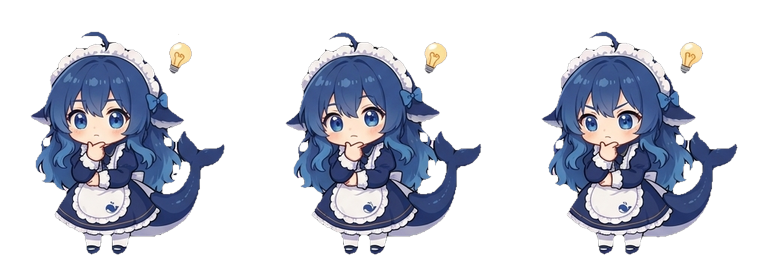
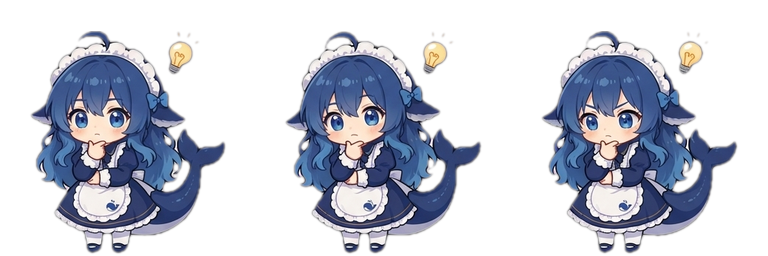
fix(assets): 边缘平滑——强羽化消除像素锯齿
- 根因：洪泛/清理全程硬 alpha（0/255），旧羽化 GaussianBlur(0.6) 太弱，边界呈台阶状锯齿
- 修复：侵蚀减到 1px + GaussianBlur(1.5) 强羽化 → 边界变成 ~4px 平滑渐变
- 边缘过渡带 3% → 7~11%；洋红保持 0~1px
- 验证：web 无崩溃、assets 200、冒烟 OK

diff --git a/scripts/slice-sheet.py b/scripts/slice-sheet.py
@@ -234,14 +234,15 @@ def despill(img, bg_colors):
 
 
 def defringe(img, erode=1):
-    """边缘侵蚀 + 羽化：剥掉含背景混合的最外层 1-2px（洋红环确定性移除），再高斯羽化恢复柔和边缘。
-    代价：轮廓损失约 1px（贴纸可接受）；比依赖混合比例的抑制更可靠。"""
+    """边缘侵蚀 + 羽化：剥掉含背景混合的最外层，再**强羽化**平滑像素锯齿。
+    硬 alpha（洪泛/清理全是 0/255）直接输出会呈现台阶状边缘（锯齿）；
+    GaussianBlur(1.5) 把边界变成 ~4px 的平滑渐变。代价：轮廓轻微软化（宠物可接受）。"""
     from PIL import ImageFilter
 
     a = img.getchannel('A')
     for _ in range(erode):
         a = a.filter(ImageFilter.MinFilter(3))
-    a = a.filter(ImageFilter.GaussianBlur(0.6))
+    a = a.filter(ImageFilter.GaussianBlur(1.5))
     out = img.copy()
     out.putalpha(a)
     return out
@@ -390,8 +391,8 @@ def main():
             img = bg_floodfill(img, bgs, tol=45)  # 边界洪泛去背景（连通性分割）
             img = closed_islands_cleanup(img, bgs)  # 封闭洋红岛（极饱和）
             img = magenta_free_cleanup(img)  # 全量洋红清除：角色纯蓝白，sp>25 即非角色
-            img = defringe(img, erode=2)  # 侵蚀 2px 剥掉边缘混合环 + 羽化
-            print(f'keyed: bg={bgs} floodfill+islands+magenta-free+defringe2', file=sys.stderr)
+            img = defringe(img, erode=1)  # 侵蚀 1px + 强羽化(1.5) 平滑锯齿
+            print(f'keyed: bg={bgs} floodfill+islands+magenta-free+feather', file=sys.stderr)
         if args.repair:
             img = harden_alpha(img)
             print('repair: alpha hardened', file=sys.stderr)
